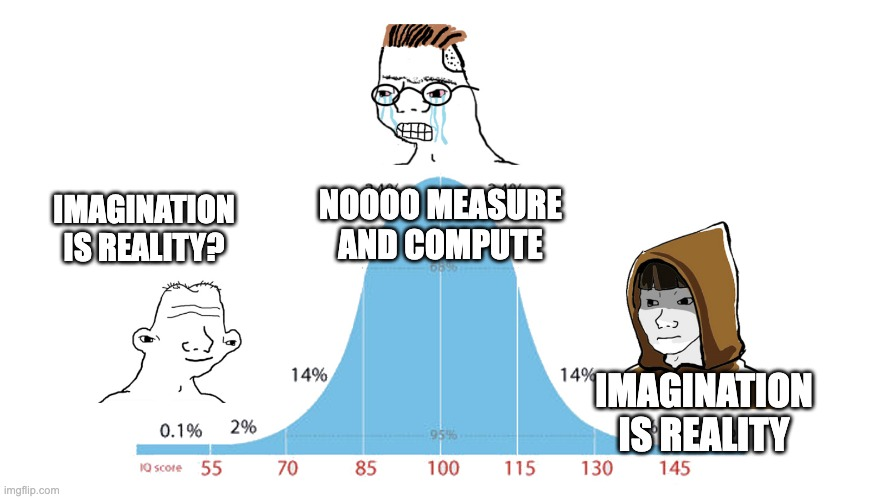
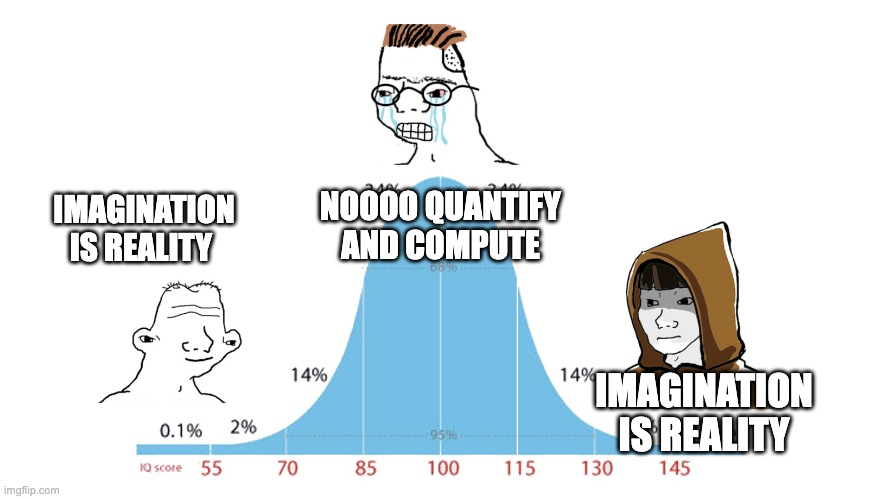
WIP

Changed region(s): [[0.3352, 0.3607, 0.64, 0.5411], [0.0609, 0.4509, 0.2743, 0.5411]]

diff --git a/slides/pydata-2077/index.html b/slides/pydata-2077/index.html
@@ -588,6 +588,16 @@
           <section class="section-slide">
             <h2>The future is unwritten</h2>
           </section>
+          <section>
+            <img src="img/midwit.jpg" />
+            <aside class="notes">
+              [AK] Perhaps the greatest trick we played on ourselves is thinking
+              that science, maths, stem isn't creative, or that analysis,
+              compute, logic is somehow at odds with the dream. Software is all
+              castles in the sky, and it is nothing but our dreams, hope and
+              perseverence that puts them there and keeps them afloat.
+            </aside>
+          </section>
 
           <section data-background-image="img/slide-bg6.png">
             <h2 class="r-fit-text" style="color: white">HACK THE UNIVERSE</h2>
@@ -633,13 +643,14 @@
               </p>
 
               <p>
-                [LS] Now everyone close your eyes, and think a small positive
-                thought towards the person on your left... then the person on
-                your right. Now send out a good vibe to everyone in this room.
-                The people in the city, in Europe, on the planet. Now imagine
-                creating things for them, imagine them creating things for you.
-                Image all the things that are possible, all the futures that are
-                possible.
+                [LS] Now I'll invite everyone to close their eyes, just for a
+                moment. Think a small, concrete positive thought towards the
+                person on your left... Then imagine something fun or interesting
+                you'd like to share with the person on your right... Now send
+                out a good vibe to everyone in this room. The people in Berlin,
+                in Europe, on the planet. Now imagine creating things for them,
+                imagine them creating things for you. Image all the things that
+                are possible and all the futures that are possible.
               </p>
             </aside>
           </section>
@@ -649,9 +660,18 @@
             data-state="totem-creature-after totem-creature-before totem-2 totem-3"
           >
             <div>
-              <h1>Dream the future</h1>
+              <h1 style="color: white">Dream the future</h1>
             </div>
             <aside class="notes">[AK] Now open your eyes.</aside>
+          </section>
+          <section
+            data-background-color="#000"
+            data-background-image="img/mark-basarab-1OtUkD_8svc-unsplash.jpg"
+            data-state="totem-creature-after totem-creature-before totem-2 totem-3"
+          >
+            <div>
+              <h1 style="color: white">Thank you</h1>
+            </div>
           </section>
         </section>
 
